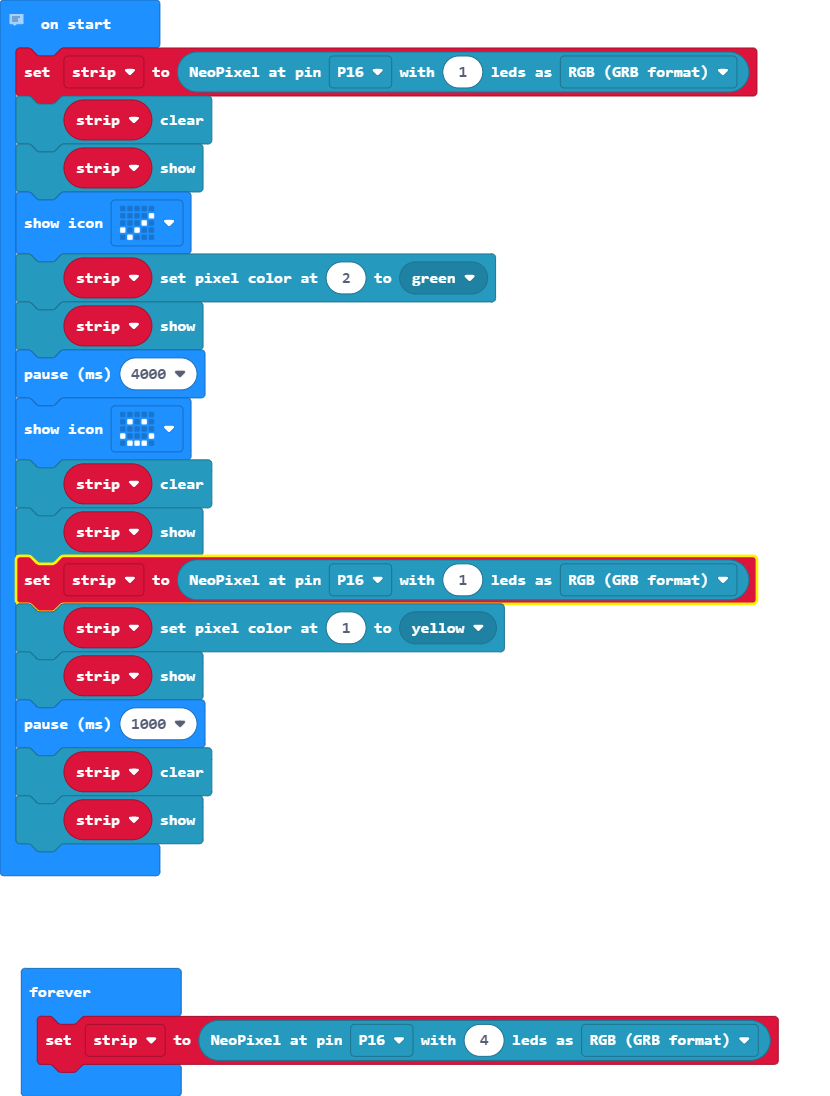
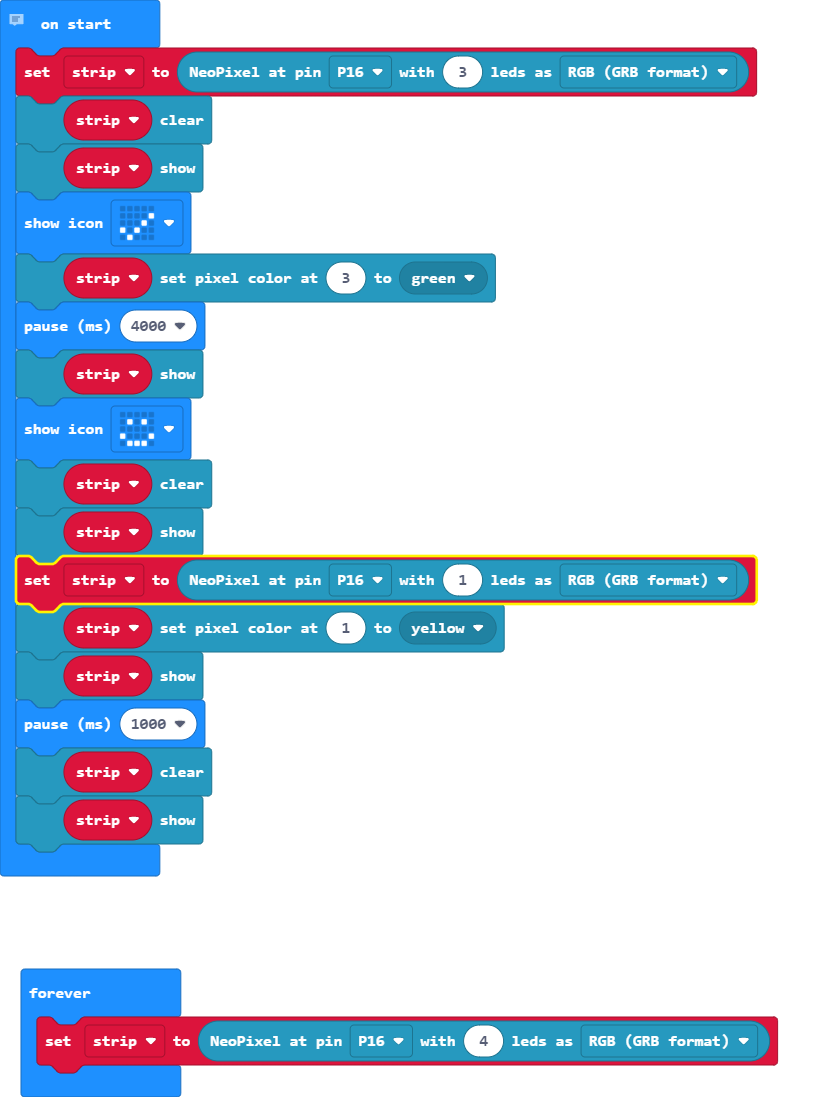
add block

diff --git a/main.ts b/main.ts
@@ -2,13 +2,13 @@
 // Created Date: Sep30, Tuesday
 // 
 // This program use  Neopines traffic light.
-let strip = neopixel.create(DigitalPin.P16, 1, NeoPixelMode.RGB)
+let strip = neopixel.create(DigitalPin.P16, 3, NeoPixelMode.RGB)
 strip.clear()
 strip.show()
 basic.showIcon(IconNames.Yes)
-strip.setPixelColor(2, neopixel.colors(NeoPixelColors.Green))
-strip.show()
+strip.setPixelColor(3, neopixel.colors(NeoPixelColors.Green))
 basic.pause(4000)
+strip.show()
 basic.showIcon(IconNames.Happy)
 strip.clear()
 strip.show()
